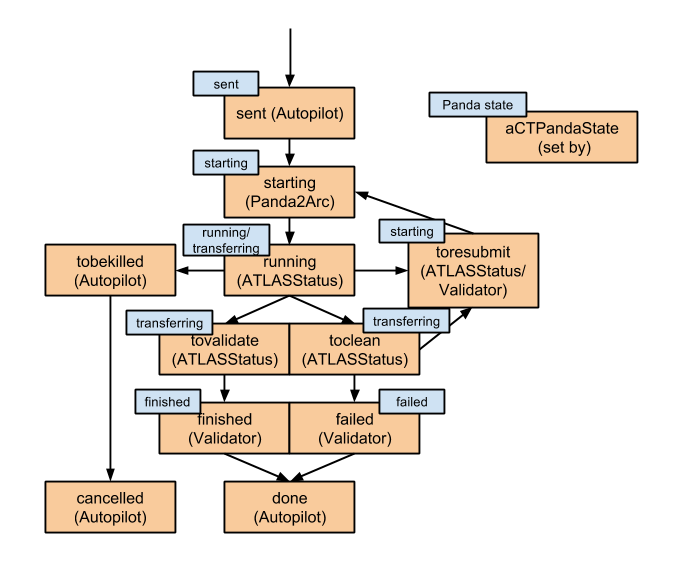
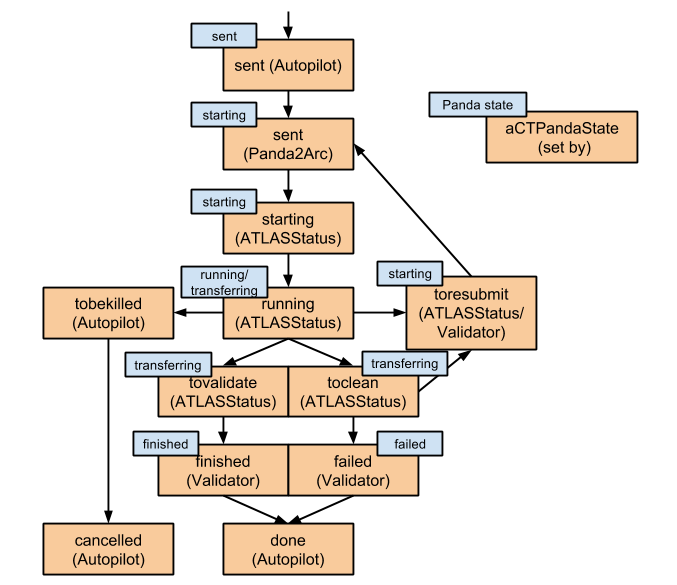
keep actpandastatus=sent until job is submitted to ARC cluster

diff --git a/act/aCTATLASStatus.py b/act/aCTATLASStatus.py
@@ -40,6 +40,33 @@ class aCTATLASStatus(aCTATLASProcess):
             return datetime.datetime.utcnow() - datetime.timedelta(0, walltime)
         return endtime-datetime.timedelta(0, walltime)
            
+           
+    def updateStartingJobs(self):
+        """
+        Check for sent jobs that have been submitted to ARC and update
+        actpandastatus to starting
+        """
+
+        select = "arcjobs.id=pandajobs.arcjobid and arcjobs.arcstate='submitted' and pandajobs.actpandastatus='sent'"
+        select += " limit 100000"
+        columns = ["arcjobs.id", "arcjobs.cluster"]
+        jobstoupdate=self.dbarc.getArcJobsInfo(select, columns=columns, tables="arcjobs,pandajobs")
+
+        if len(jobstoupdate) == 0:
+            return
+        else:
+            self.log.debug("Found %d submitted jobs", len(jobstoupdate))
+
+        for aj in jobstoupdate:
+            select = "arcjobid='"+str(aj["id"])+"'"
+            desc = {}
+            desc["pandastatus"] = "starting"
+            desc["actpandastatus"] = "starting"
+            desc["computingElement"] = aj["cluster"].split('/')[0]
+            self.dbpanda.updateJobsLazy(select, desc)
+        self.dbpanda.Commit()
+
+        
     def updateRunningJobs(self):
         """
         Check for new running jobs and update pandajobs with
@@ -360,6 +387,8 @@ class aCTATLASStatus(aCTATLASProcess):
             # Check for jobs that panda told us to kill and cancel them in ARC
             self.checkJobstoKill()
             # Check status of arcjobs
+            # Query jobs that were submitted since last time
+            self.updateStartingJobs()
             # Query jobs in running arcstate with tarcstate sooner than last run
             self.updateRunningJobs()
             # Query jobs in arcstate done and update pandajobs

diff --git a/act/aCTAutopilot.py b/act/aCTAutopilot.py
@@ -200,10 +200,14 @@ class aCTAutopilot(aCTATLASProcess):
 
         for site, attrs in self.sites.iteritems():        
 
+            # Get number of jobs injected into ARC but not yet submitted
             nsubmitting = self.dbpanda.getNJobs("actpandastatus='sent' and siteName='%s'" %  site )
+            # Get total number of active jobs
             nall = self.dbpanda.getNJobs("siteName='%s' and actpandastatus!='done' and actpandastatus!='cancelled'" % site)
             self.log.debug("Site %s: %i jobs in sent, %i total" % (site, nsubmitting, nall))
 
+            # Limit number of jobs waiting submission to avoid getting too many
+            # jobs from Panda 
             if nsubmitting > int(self.conf.get(["panda","minjobs"])) :
                 continue
             

diff --git a/act/aCTPanda2Arc.py b/act/aCTPanda2Arc.py
@@ -46,7 +46,6 @@ class aCTPanda2Arc(aCTATLASProcess):
                 jd = {}
                 jd['arcjobid'] = aid['LAST_INSERT_ID()']
                 jd['pandastatus'] = 'starting'
-                jd['actpandastatus'] = 'starting'
                 # Make sure heartbeat is updated straight away when job goes to starting
                 jd['theartbeat'] = self.dbpanda.getTimeStamp(time.time()-int(self.conf.get(['panda', 'heartbeattime'])))
                 self.dbpanda.updateJob(job['pandaid'], jd)
